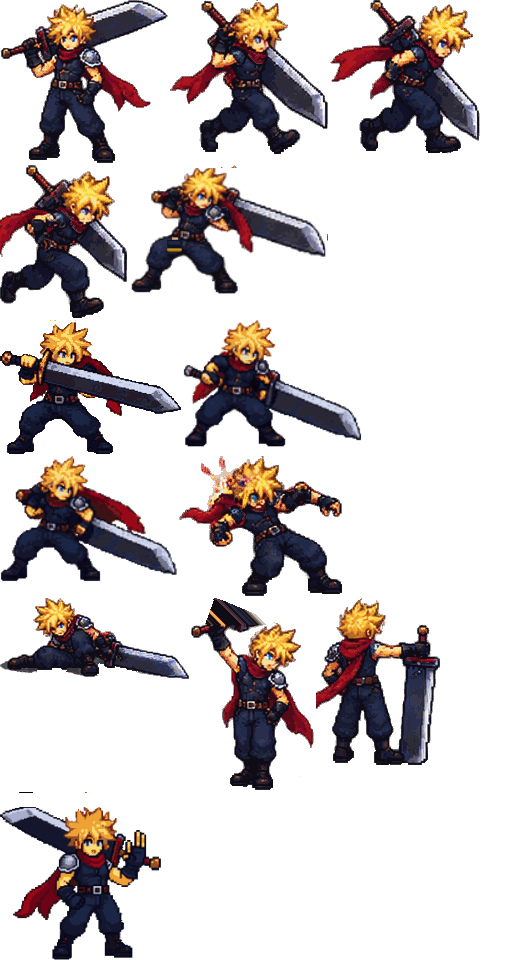
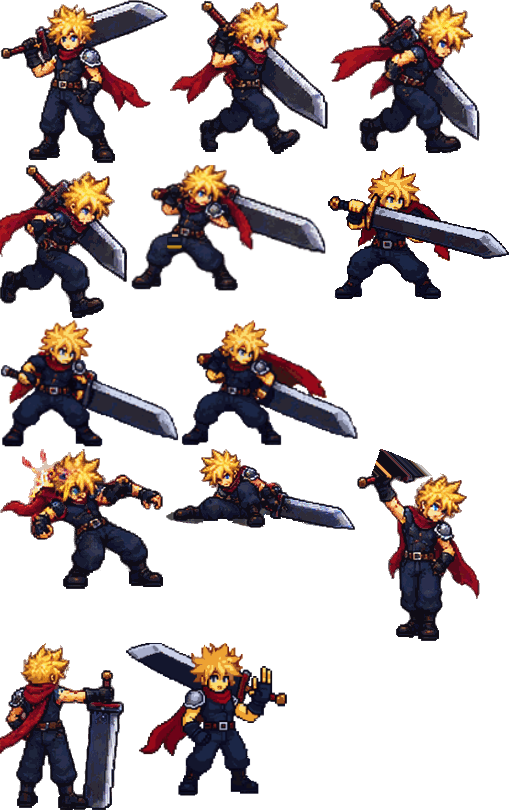
Report and drop stray marks in an imported hero sheet
A detached brush mark becomes part of the frame it sits in and drags that
frame's box (and its pivot) with it, so --from-sheet now says which frames
carry detached parts, and --drop-specks PX removes the ones smaller than PX.
The redrawn sheet's cast frame had a 14px dash floating beside the head; the
atlas is rebuilt with --drop-specks 16, which clears every mark (1-14px) and
tightens cast 161x168 -> 161x153 and swing-windup 199x129 -> 197x126.

diff --git a/sites/ffm/static/game/hero/hero-frames.js b/sites/ffm/static/game/hero/hero-frames.js
@@ -10,14 +10,14 @@ export const HERO_FRAMES = {
   'idle': { x: 0, y: 0, w: 168, h: 163, px: 72, py: 162, shadow: 0 },
   'walk-a': { x: 170, y: 0, w: 158, h: 154, px: 78, py: 153, shadow: 0 },
   'walk-b': { x: 330, y: 0, w: 150, h: 154, px: 80, py: 153, shadow: 0 },
-  'walk-c': { x: 0, y: 165, w: 127, h: 153, px: 88, py: 152, shadow: 0 },
-  'swing-windup': { x: 129, y: 165, w: 199, h: 129, px: 55, py: 128, shadow: 0 },
-  'swing-strike': { x: 0, y: 320, w: 181, h: 134, px: 59, py: 133, shadow: 0 },
-  'swing-impact': { x: 183, y: 320, w: 179, h: 127, px: 90, py: 126, shadow: 0 },
-  'swing-follow': { x: 0, y: 456, w: 177, h: 126, px: 88, py: 125, shadow: 0 },
-  'hurt': { x: 179, y: 456, w: 164, h: 140, px: 112, py: 139, shadow: 0 },
-  'dead': { x: 0, y: 598, w: 189, h: 81, px: 130, py: 80, shadow: 0 },
-  'victory-raise': { x: 191, y: 598, w: 123, h: 192, px: 60, py: 191, shadow: 0 },
-  'victory-plant': { x: 316, y: 598, w: 124, h: 167, px: 64, py: 166, shadow: 0 },
-  'cast': { x: 0, y: 792, w: 161, h: 168, px: 92, py: 167, shadow: 0 },
+  'walk-c': { x: 0, y: 165, w: 127, h: 153, px: 87, py: 152, shadow: 0 },
+  'swing-windup': { x: 129, y: 165, w: 197, h: 126, px: 55, py: 125, shadow: 0 },
+  'swing-strike': { x: 328, y: 165, w: 181, h: 134, px: 59, py: 133, shadow: 0 },
+  'swing-impact': { x: 0, y: 320, w: 179, h: 127, px: 90, py: 126, shadow: 0 },
+  'swing-follow': { x: 181, y: 320, w: 177, h: 126, px: 88, py: 125, shadow: 0 },
+  'hurt': { x: 0, y: 449, w: 164, h: 140, px: 112, py: 139, shadow: 0 },
+  'dead': { x: 166, y: 449, w: 189, h: 81, px: 130, py: 80, shadow: 0 },
+  'victory-raise': { x: 357, y: 449, w: 123, h: 192, px: 60, py: 191, shadow: 0 },
+  'victory-plant': { x: 0, y: 643, w: 124, h: 167, px: 64, py: 166, shadow: 0 },
+  'cast': { x: 126, y: 643, w: 161, h: 153, px: 92, py: 152, shadow: 0 },
 };

diff --git a/sites/ffm/scripts/hero_frames.py b/sites/ffm/scripts/hero_frames.py
@@ -982,6 +982,13 @@ def export_edit_sheet(frames: list[Frame], path: Path, cols: int = 4,
 
 
 
+def _specks(image: np.ndarray) -> list[int]:
+    """Sizes of the detached parts of a frame, biggest first."""
+    labels, count = _components(image[:, :, 3] > 0)
+    sizes = sorted((int((labels == lab).sum()) for lab in range(1, count + 1)), reverse=True)
+    return sizes[1:]
+
+
 GUIDE_COLOURS = (SHEET_RED, SHEET_AMBER, SHEET_LABEL, SHEET_PIVOT, SHEET_CENTRE)
 
 
@@ -1019,7 +1026,20 @@ def _erase_guides(crop: np.ndarray, annotation: np.ndarray) -> np.ndarray:
     return out
 
 
-def import_edit_sheet(path: Path) -> tuple[list[Frame], list[str]]:
+def _drop_specks(image: Image.Image, minimum: int) -> Image.Image:
+    """Remove detached parts of a frame smaller than `minimum` pixels."""
+    a = np.array(image)
+    labels, count = _components(a[:, :, 3] > 0)
+    keep = np.zeros_like(labels, dtype=bool)
+    for lab in range(1, count + 1):
+        part = labels == lab
+        if part.sum() >= minimum:
+            keep |= part
+    a[~keep] = 0
+    return _crop_to_content(a)
+
+
+def import_edit_sheet(path: Path, drop_specks: int = 0) -> tuple[list[Frame], list[str]]:
     """Read a hand-edited `--export-sheet` image back into frames.
 
     Each pose is cropped to its own cell, the guide lines are erased, and the
@@ -1058,7 +1078,16 @@ def import_edit_sheet(path: Path) -> tuple[list[Frame], list[str]]:
             notes.append(f"{entry['id']}: art touches the cell border and will be "
                          f"cropped there")
         image = _crop_to_content(crop)
+        if drop_specks:
+            image = _drop_specks(image, drop_specks)
         frames.append(Frame(entry["id"], image, f"edited:{path.name}", None, 0))
+        # A stray brush mark in the sheet becomes part of the frame and drags
+        # its bounding box (and so its pivot) with it, so say so instead of
+        # quietly shipping it.
+        marks = _specks(np.array(image))
+        if marks:
+            notes.append(f"{entry['id']}: {len(marks)} detached speck(s) "
+                         f"(largest {marks[0]}px) - part of the frame")
     order = {f.id: i for i, f in enumerate(frames)}
     frames.sort(key=lambda f: (FRAME_ORDER.index(f.id) if f.id in FRAME_ORDER else 99,
                                order[f.id]))
@@ -1081,6 +1110,9 @@ def main(argv: list[str]) -> int:
     parser.add_argument("--from-sheet", metavar="PATH",
                         help="build the atlas from a hand-edited --export-sheet image "
                              "(uses the .json layout written next to it)")
+    parser.add_argument("--drop-specks", type=int, metavar="PX", default=0,
+                        help="with --from-sheet: drop detached brush marks smaller than PX "
+                             "pixels (a stray mark otherwise drags the frame's box and pivot)")
     parser.add_argument("--strict", action="store_true",
                         help="treat sword-check warnings as failures (use in CI)")
     parser.add_argument("--check", action="store_true",
@@ -1088,7 +1120,7 @@ def main(argv: list[str]) -> int:
     args = parser.parse_args(argv)
 
     if args.from_sheet:
-        frames, notes = import_edit_sheet(Path(args.from_sheet))
+        frames, notes = import_edit_sheet(Path(args.from_sheet), drop_specks=args.drop_specks)
         missing = [f for f in FRAME_ORDER if f not in {frame.id for frame in frames}]
         print(f"imported {len(frames)} frames from {args.from_sheet}")
         for note in notes:
